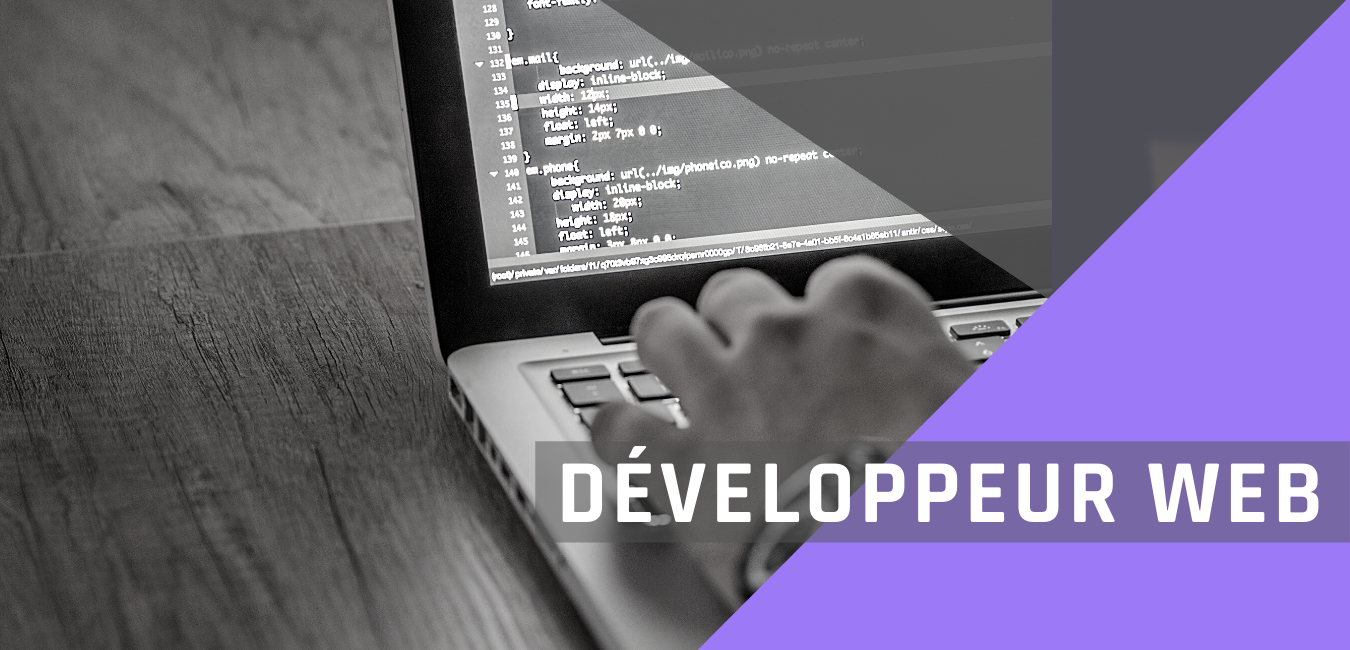
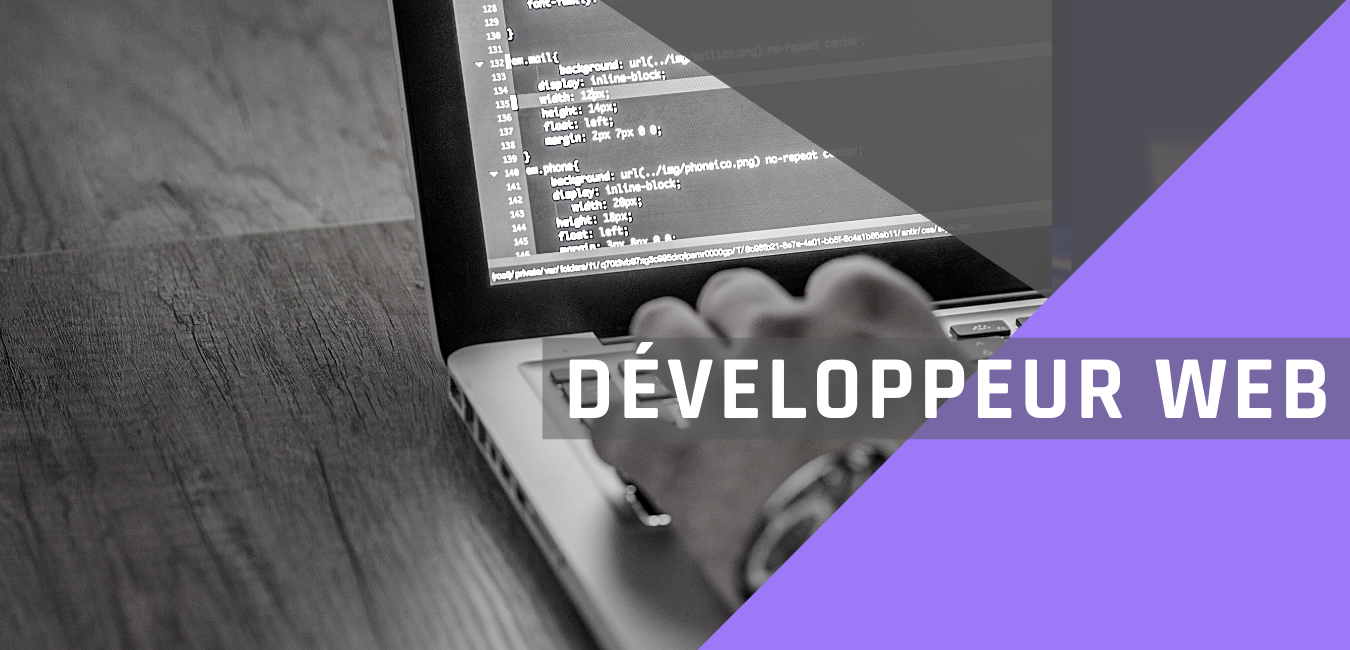
Modification du cv/portfolio

Changed region(s): [[0.3733, 0.5231, 1.0, 0.8615]]

diff --git a/index.html b/index.html
@@ -5,6 +5,8 @@
     <meta name="viewport" content="width=device-width, initial-scale=1.0">
     <title>Baux Aurélien Portfolio</title>
     <link rel="stylesheet" href="css/style.css">
+    <link rel="preconnect" href="https://fonts.gstatic.com">
+    <link href="https://fonts.googleapis.com/css2?family=Electrolize&family=Teko:wght@300;400;500;600;700&display=swap" rel="stylesheet"> 
 </head>
 
 <body>
@@ -53,6 +55,8 @@
       <img class="header_logo" src="img/Logo-blanc.png" alt="Logo Baux Aurélien">
     </div>
   </header>
+  
+  <h1>Baux Aurélien, Développeur web en formation</h1>
   
   <div class="main-container" id="Haut">
 
@@ -134,33 +138,33 @@
       <div class="skills">
         <div class="skill_under">
           <div>
-            <p>HTML</p>
+            <p class="icon-title">HTML</p>
             <img class="icon" src="img/001-html-5.png" alt="Logo html5">
           </div>
           <div>
-            <p>CSS</p>
+            <p class="icon-title">CSS</p>
             <img class="icon" src="img/002-css.png" alt="Logo css3">
           </div>
           <div>
-            <p>PYTHON</p>
+            <p class="icon-title">PYTHON</p>
             <img class="icon" src="img/001-python.png" alt="Logo Python">
           </div>
           <div>
-            <p>GIT / GITHUB</p>
-            <img class="icon" src="img/002-github.png" alt="Logo github">
+            <p class="icon-title">GIT / GITHUB</p>
+            <img class="icon" src="img/001-github.png" alt="Logo github">
           </div>
         </div>
         <div class="skill_under">
           <div>
-            <p>JAVASCRIPT</p>
+            <p class="icon-title">JAVASCRIPT</p>
             <img class="icon" src="img/003-javascript.png" alt="Logo javascript">
           </div>
           <div>
-            <p>PHP</p>
+            <p class="icon-title">PHP</p>
             <img class="icon" src="img/004-php.png" alt="Logo Php">
           </div>
           <div>
-            <p>WORDPRESS</p>
+            <p class="icon-title">WORDPRESS</p>
             <img class="icon" src="img/005-wordpress.png" alt="Logo wordpress">
           </div>
         </div>
@@ -172,25 +176,29 @@
     <div class="container container-interet">
       <h2 class="container_title" id="Intérets">Centres d'intérets</h2>
       <div class="interet">
-        <div>
-          <h3 class="interet-h3">Voyages</h3>
-          <img class="icon" src="img/004-travel.png" alt="Icone travel">
-        </div>
+        <div class="interet_under">
           <div>
-          <h3 class="interet-h3">Films</h3>
-        <img class="icon" src="img/012-clapperboard.png" alt="Icon movies">
+            <p>Voyages</p>
+            <img class="icon" src="img/004-travel.png" alt="Icone travel">
+          </div>
+            <div>
+            <p>Films</p>
+          <img class="icon" src="img/012-clapperboard.png" alt="Icon movies">
+          </div>
+          <div>
+            <p>Vélo</p>
+            <img class="icon" src="img/007-cycling.png" alt="Icon cycle">
+          </div>
         </div>
-        <div>
-          <h3 class="interet-h3">Vélo</h3>
-          <img class="icon" src="img/007-cycling.png" alt="Icon cycle">
-        </div>
-        <div>
-          <h3 class="interet-h3">Moto</h3>
-          <img class="icon" src="img/001-chopper.png" alt="Icon Motorcycle">
-        </div>
-        <div> 
-          <h3 class="interet-h3">Jeux vidéos</h3>
-          <img class="icon" src="img/009-controller.png" alt="Icon controller">
+        <div class="interet_under">
+          <div>
+            <p>Moto</p>
+            <img class="icon" src="img/001-chopper.png" alt="Icon Motorcycle">
+          </div>
+          <div> 
+            <p>Jeux vidéos</p>
+            <img class="icon" src="img/009-controller.png" alt="Icon controller">
+          </div>
         </div> 
       </div>
     </div>
@@ -208,10 +216,19 @@
     <div class="container container-contact">
       <h2 class="container_title" id="Contact">Contact</h2>
       <div class="container_form">
-      <input class="form" name="Name/surname" type="text" placeholder="Nom / Prénom :">
-      <input class="form" name="Email" type="text" placeholder="Email :">
-      <textarea class="form" name="Objet" id="" cols="50" rows="6" placeholder="Objet"></textarea>
-      <input class="form_submit" type="submit" value="Envoyer">
+        <input class="form" name="Name/surname" type="text" placeholder="Nom / Prénom :">
+        <input class="form" name="Email" type="text" placeholder="Email :">
+        <textarea class="form" name="Objet" id="" cols="50" rows="6" placeholder="Objet"></textarea>
+        <input class="form_submit" type="reset" name="Réinitialiser" value="Réinitialiser">
+        <input class="form_submit" type="submit" value="Envoyer">
+      </div>
+      <div class="input-fields">
+        <input type="text" class="input" placeholder="Nom / Prénom :">
+        <input type="text" class="input" placeholder="Adresse mail :">
+      </div>
+      <div class="message">
+        <textarea placeholder="Message"></textarea>
+        <div class="btn">Envoyer</div>
       </div>
     </div>
   </div>

diff --git a/scss/layout/_container.scss b/scss/layout/_container.scss
@@ -19,10 +19,6 @@
     text-decoration-color: $color-purple;
 }
 
-.container-contact {
-    
-}
-
 .form {
     margin: 5px;
     padding: 5px;
@@ -32,7 +28,7 @@
 }
 
 .form_submit {
-    margin: 5px;
+    margin-left: 20px;
 }
 
 .skills {
@@ -56,13 +52,15 @@
     margin: 20px;
 }
 
-.interet-h3 {
+.icon-title {
     text-align: center;
 }
 
 .icon {
+    justify-content: center;
     max-width: 100px;
     height: 80px;
+    padding-bottom: 10px;
 }
 
 .container-diplome {
@@ -73,7 +71,7 @@
     .main-container {
         display: grid;
         grid-template-columns: repeat(2, 1fr);
-        grid-template-rows: repeat(7, 1fr);
+        grid-template-rows: repeat(4, 1fr);
         column-gap: 10px;
         grid-template-areas: 
         "info exp"
@@ -123,6 +121,14 @@
 
     .icon {
         max-width: 100px;
+    }
+
+    .form {
+        margin-left: 100px;
+    }
+
+    .form_submit {
+        margin-left: 100px;
     }
 }
 
@@ -185,54 +191,52 @@
 @media (min-width: 1500px) {
     .main-container {
         display: grid;
-        grid-template-columns: repeat(3, 500px);
-        grid-auto-rows: repeat(3, 500px);
-        justify-content: space-around;
-        align-content: space-between;
+        grid-template-columns: repeat(3, 1fr);
+        grid-auto-rows: repeat(3, 1fr);
+        column-gap: 10px;
+        grid-template-areas: 
+        "info exp form"
+        "skil int nouv"
+        "cont cont cont"
     }
 
     .container-info {
-        grid-column: 1;
-        grid-row: 1;
+        grid-area: info;
     }
 
     .container-experience {
-        grid-column: 2;
-        grid-row: 1;        
+        grid-area: exp;     
     }
 
     .container-diplome {
-        grid-column: 2;
-        grid-row: 2;   
+        grid-area: form;
     }
 
     .container_skills {
-        grid-column: 3;
-        grid-row: 2; 
+        grid-area: skil;
     }
 
     .container-interet {
-        grid-column: 3;
-        grid-row: 1;
+        grid-area: int;
     }
 
     .container-nouv {
-        grid-column: 1;
-        grid-row: 2;
+        grid-area: nouv;
     }
 
     .container-contact {
-        grid-column: 1 / 4;
-        grid-row: 3;
-        height: 400px;
+        grid-area: cont;
     }
 
     .interet {
         display: flex;
-        flex-wrap: wrap;
         justify-content: space-around;
-        margin: 50px;
+        margin: 20px;
     }
+
+    // .separator {
+    //     position: relative;
+    // }
 
     .icon {
         max-width: 100px;

diff --git a/scss/layout/_body.scss b/scss/layout/_body.scss
@@ -1,3 +1,16 @@
 body {
     background-color: $color-background;
+    font-family: 'Electrolize', sans-serif;
+}
+
+h1 {
+    display: flex;
+    justify-content: center;
+    margin-top: 1em;
+    font-family: 'Teko', sans-serif;
+    color: white;
+}
+
+h2, h3 {
+    font-family: 'Teko', sans-serif;
 }

diff --git a/scss/layout/_header.scss b/scss/layout/_header.scss
@@ -6,7 +6,7 @@
 
 .header_images {
     max-width: 100%;
-    height: 300px;
+    height: 100vh;
     position: relative;
     background-image: url(https://raw.githubusercontent.com/Baubaux/Mon-cv/master/img/D%C3%A9veloppeur%20web.png);
     background-size: cover;
